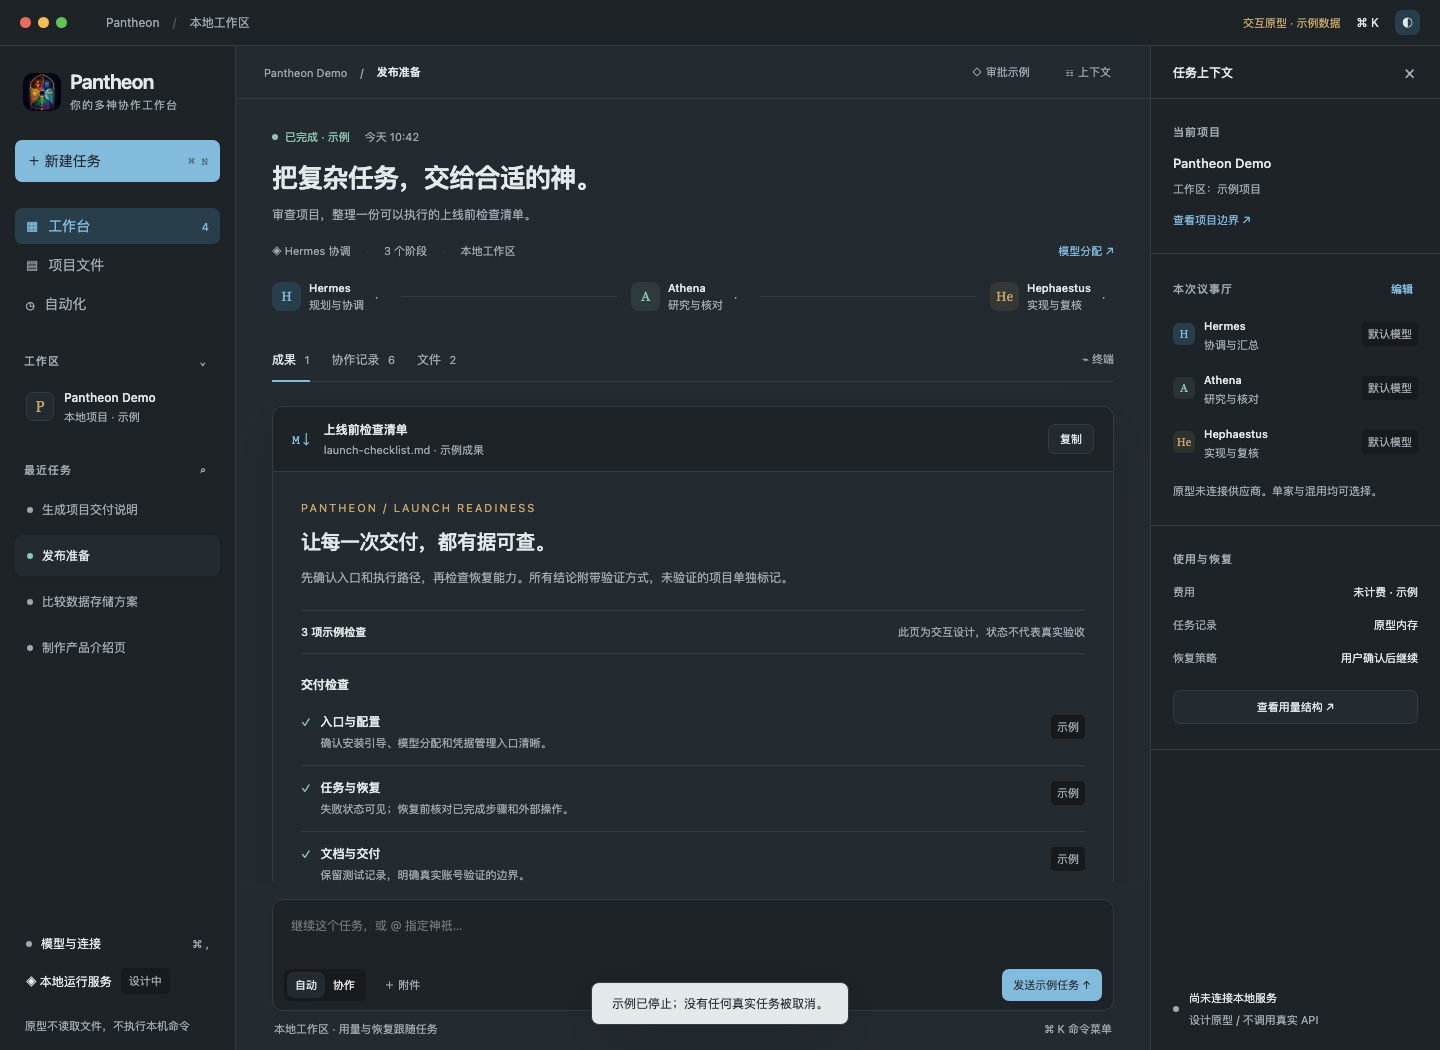
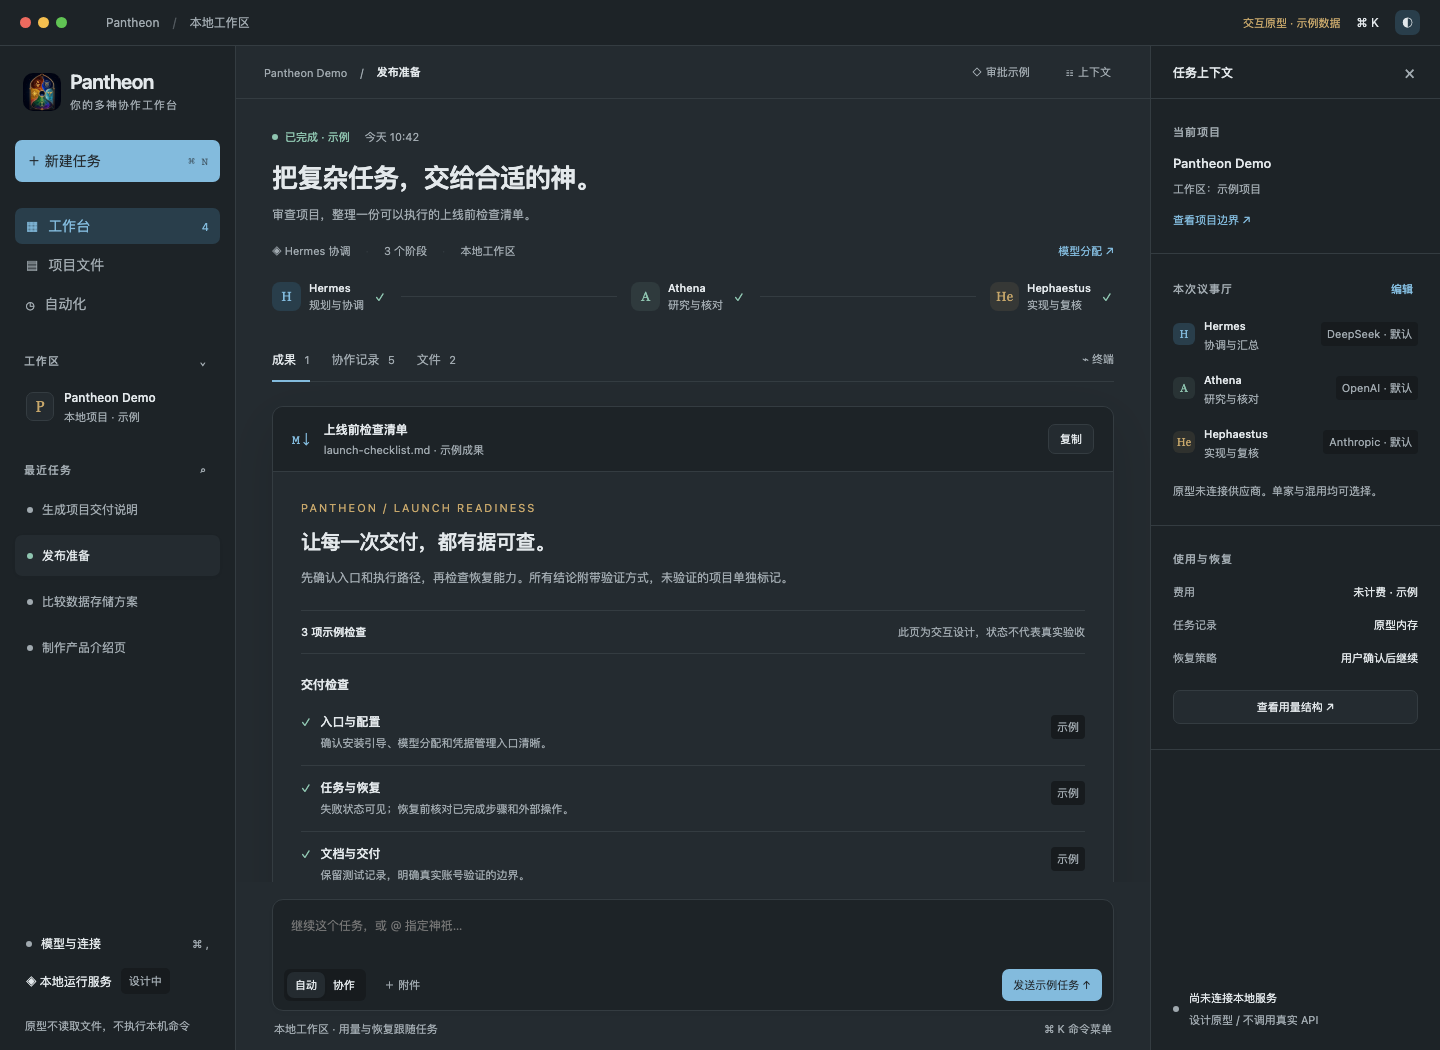
Verify desktop interactions and preserve per-task prototype state

Changed region(s): [[0.4062, 0.9143, 0.5938, 0.9752], [0.9375, 0.3657, 0.9688, 0.4267], [0.9375, 0.3048, 0.9688, 0.3352]]

diff --git a/docs/desktop/prototype.js b/docs/desktop/prototype.js
@@ -13,6 +13,7 @@ const entries = [
   ['forge','He','Hephaestus','执行路径与恢复检查','复核执行、失败状态和恢复边界，整理可操作清单。'],
   ['hermes','H','Hermes','汇总成果','把阶段输出整理成可交付的项目文档。'],
 ];
+sampleTasks.forEach(task => { task.activities = task.id === 'launch' ? entries.map(item => [...item]) : []; });
 const fileText = {
   checklist:'# 上线前检查清单（示例）\n\n- [ ] 确认安装与模型配置入口\n- [ ] 检查失败状态与任务恢复\n- [ ] 留存测试记录和验证边界\n\n此文件仅为原型展示，不代表真实验收。',
   notes:'任务：审查示例项目\n\n协作：Hermes → Athena → Hephaestus → Hermes\n\n边界：\n未读取本机工作区\n未调用供应商 API\n未执行工具或写入文件\n\n此记录仅保存在原型内存中。',
@@ -38,11 +39,14 @@ function selectTask(id) {
   const task = sampleTasks.find(item => item.id === id);
   $('#breadcrumb-task').textContent = task.title; $('#task-title').textContent = task.heading;
   $('#task-subtitle').textContent = task.prompt; $('#task-state').textContent = task.state;
-  renderTasks(); setView('work'); setTab(id === 'launch' ? 'result' : 'activity');
+  document.querySelectorAll('.route-check').forEach(item => item.textContent = task.state.startsWith('已完成') ? '✓' : '·');
+  renderTasks(); renderActivity(); updateModelTags(); setView('work'); setTab(id === 'launch' ? 'result' : 'activity');
 }
 function renderActivity() {
   $('#activity-list').replaceChildren();
-  entries.forEach(([kind, mark, name, title, description], index) => {
+  const activity = sampleTasks.find(task => task.id === selectedTask).activities || [];
+  $('#activity-tab span').textContent = activity.length;
+  activity.forEach(([kind, mark, name, title, description], index) => {
     const li = document.createElement('li');
     const avatar = document.createElement('span'); avatar.className = `role-mark ${kind}`; avatar.textContent = mark;
     const content = document.createElement('div');
@@ -52,7 +56,7 @@ function renderActivity() {
     content.append(strong, p, small); li.append(avatar, content); $('#activity-list').appendChild(li);
   });
 }
-function addActivity(title, description) { entries.push(['hermes','H','Pantheon',title,description]); renderActivity(); $('#activity-tab span').textContent = entries.length; }
+function addActivity(title, description) { const task = sampleTasks.find(item => item.id === selectedTask); (task.activities ||= []).push(['hermes','H','Pantheon',title,description]); renderActivity(); }
 function setTab(name) {
   $('#automation-pane').hidden = true;
   ['result','activity','files'].forEach(key => {
@@ -69,6 +73,7 @@ function setView(name) {
 }
 function showInspector(show) { app.classList.toggle('no-inspector', !show); app.classList.toggle('show-inspector', show); $('#inspector-toggle').setAttribute('aria-pressed', String(show)); }
 function showTerminal(show) { $('#terminal-drawer').hidden = !show; $('#terminal-toggle').setAttribute('aria-expanded', String(show)); }
+function updateModelTags() { const providers = sampleTasks.find(task => task.id === selectedTask).modelProviders || []; document.querySelectorAll('.inspector-role .text-tag').forEach((tag,index) => tag.textContent = providers[index] ? providers[index] + ' · 默认' : '默认模型'); }
 function showModels() { renderModels(); openDialog('#models-dialog'); }
 function renderModels() {
   $('#model-rows').replaceChildren();
@@ -144,7 +149,7 @@ $('#terminal-toggle').onclick = () => showTerminal($('#terminal-drawer').hidden)
 $('#terminal-close').onclick = () => showTerminal(false);
 $('#terminal-simulate').onclick = () => $('#terminal-output').textContent += '\n[示例] 检查记录已显示。没有运行 shell 命令。';
 $('#model-open').onclick = $('#inspector-model').onclick = $('#connection-open').onclick = showModels;
-$('#save-models').onclick = () => { $('#models-dialog').close(); toast('模型分配已应用到原型；没有保存真实连接。'); };
+$('#save-models').onclick = () => { sampleTasks.find(task => task.id === selectedTask).modelProviders = [...$('#model-rows').querySelectorAll('select')].map(select => select.value); updateModelTags(); $('#models-dialog').close(); toast('模型分配已应用到原型；没有保存真实连接。'); };
 $('#mock-connections').onclick = () => { $('#models-dialog').close(); info('连接管理与角色模型分开','桌面端将共用已实现的连接保存、启停、引用检查和删除能力。这个原型不收集 API Key。'); };
 $('#approval-open').onclick = () => openDialog('#approval-dialog');
 $('#allow-approval').onclick = $('#deny-approval').onclick = event => { const allowed = event.target.id === 'allow-approval'; $('#approval-dialog').close(); addActivity(allowed ? '示例审批：允许一次' : '示例审批：已拒绝','没有执行任何命令；真实应用会在工具边界完成审批。'); setTab('activity'); toast(allowed ? '已记录示例授权；不会执行命令。' : '已记录示例拒绝。'); };

diff --git a/docs/desktop/verify.py b/docs/desktop/verify.py
@@ -1,0 +1,95 @@
+import functools
+import json
+import threading
+from http.server import SimpleHTTPRequestHandler, ThreadingHTTPServer
+from pathlib import Path
+
+from playwright.sync_api import expect, sync_playwright
+
+root = Path(__file__).resolve().parents[1]
+
+
+class Quiet(SimpleHTTPRequestHandler):
+    def log_message(self, *args):
+        pass
+
+
+server = ThreadingHTTPServer(("127.0.0.1", 0), functools.partial(Quiet, directory=str(root)))
+thread = threading.Thread(target=server.serve_forever, daemon=True)
+thread.start()
+try:
+    with sync_playwright() as p:
+        browser = p.chromium.launch()
+        page = browser.new_page(viewport={"width": 1440, "height": 1050}, device_scale_factor=1)
+        errors = []
+        requests = []
+        page.on("pageerror", lambda error: errors.append(str(error)))
+        page.on("request", lambda request: requests.append(request.url))
+        url = f"http://127.0.0.1:{server.server_port}/desktop/index.html"
+        page.goto(url, wait_until="networkidle")
+        assert page.locator(".brand img").evaluate("(el)=>el.naturalWidth") > 0
+        page.screenshot(path=str(root / "desktop/preview-light.png"))
+        page.locator("#model-open").click()
+        page.locator('[name="model-mode"][value="mixed"]').check()
+        assert page.locator("#model-rows select").count() == 4
+        assert page.locator("#model-rows select").nth(1).input_value() == "OpenAI"
+        page.locator("#save-models").click()
+        page.locator("#approval-open").click()
+        page.locator("#deny-approval").click()
+        expect(page.locator("#activity-list")).to_contain_text("示例审批：已拒绝")
+        page.locator("#files-tab").click()
+        expect(page.locator("#file-content")).to_contain_text("上线前检查清单")
+        page.locator("#terminal-toggle").click()
+        page.locator("#terminal-simulate").click()
+        expect(page.locator("#terminal-output")).to_contain_text("没有运行 shell 命令")
+        page.locator("#terminal-close").click()
+        page.locator("#new-task").click()
+        page.locator("#new-prompt").fill("生成项目交付说明")
+        page.get_by_role("button", name="创建示例任务", exact=True).click()
+        expect(page.locator("#task-list")).to_contain_text("生成项目交付说明")
+        page.locator("#run-demo").click()
+        expect(page.locator("#run-demo")).to_contain_text("停止示例")
+        page.locator("#run-demo").click()
+        expect(page.locator("#task-state")).to_contain_text("已停止")
+        page.keyboard.press("Control+k")
+        page.locator("#command-search").fill("分配角色")
+        page.locator("#command-list button").click()
+        expect(page.locator("#models-dialog")).to_be_visible()
+        page.keyboard.press("Escape")
+        page.get_by_role("button", name="发布准备", exact=True).click()
+        page.locator("#result-tab").click()
+        page.evaluate("document.querySelector('#toast').hidden = true")
+        page.locator("#theme-toggle").click()
+        page.screenshot(path=str(root / "desktop/preview-dark.png"))
+        for width in (1440, 1024, 760):
+            page.set_viewport_size({"width": width, "height": 950})
+            assert page.evaluate("document.documentElement.scrollWidth <= innerWidth"), width
+        assert not errors, errors
+        assert all("/api/" not in url for url in requests), requests
+        browser.close()
+        (root / "desktop/verification.json").write_text(
+            json.dumps(
+                {
+                    "prototype_only": True,
+                    "checks": [
+                        "light/dark render",
+                        "local branding",
+                        "single/mixed model selection",
+                        "approval refusal",
+                        "result/files/activity tabs",
+                        "terminal simulation",
+                        "new task and stop",
+                        "keyboard command menu",
+                        "1440/1024/760 layout",
+                    ],
+                    "page_errors": errors,
+                    "api_requests": 0,
+                },
+                ensure_ascii=False,
+                indent=2,
+            )
+        )
+        print("DESKTOP_PROTOTYPE_PASS", len(requests), "static requests; zero API requests")
+finally:
+    server.shutdown()
+    server.server_close()
